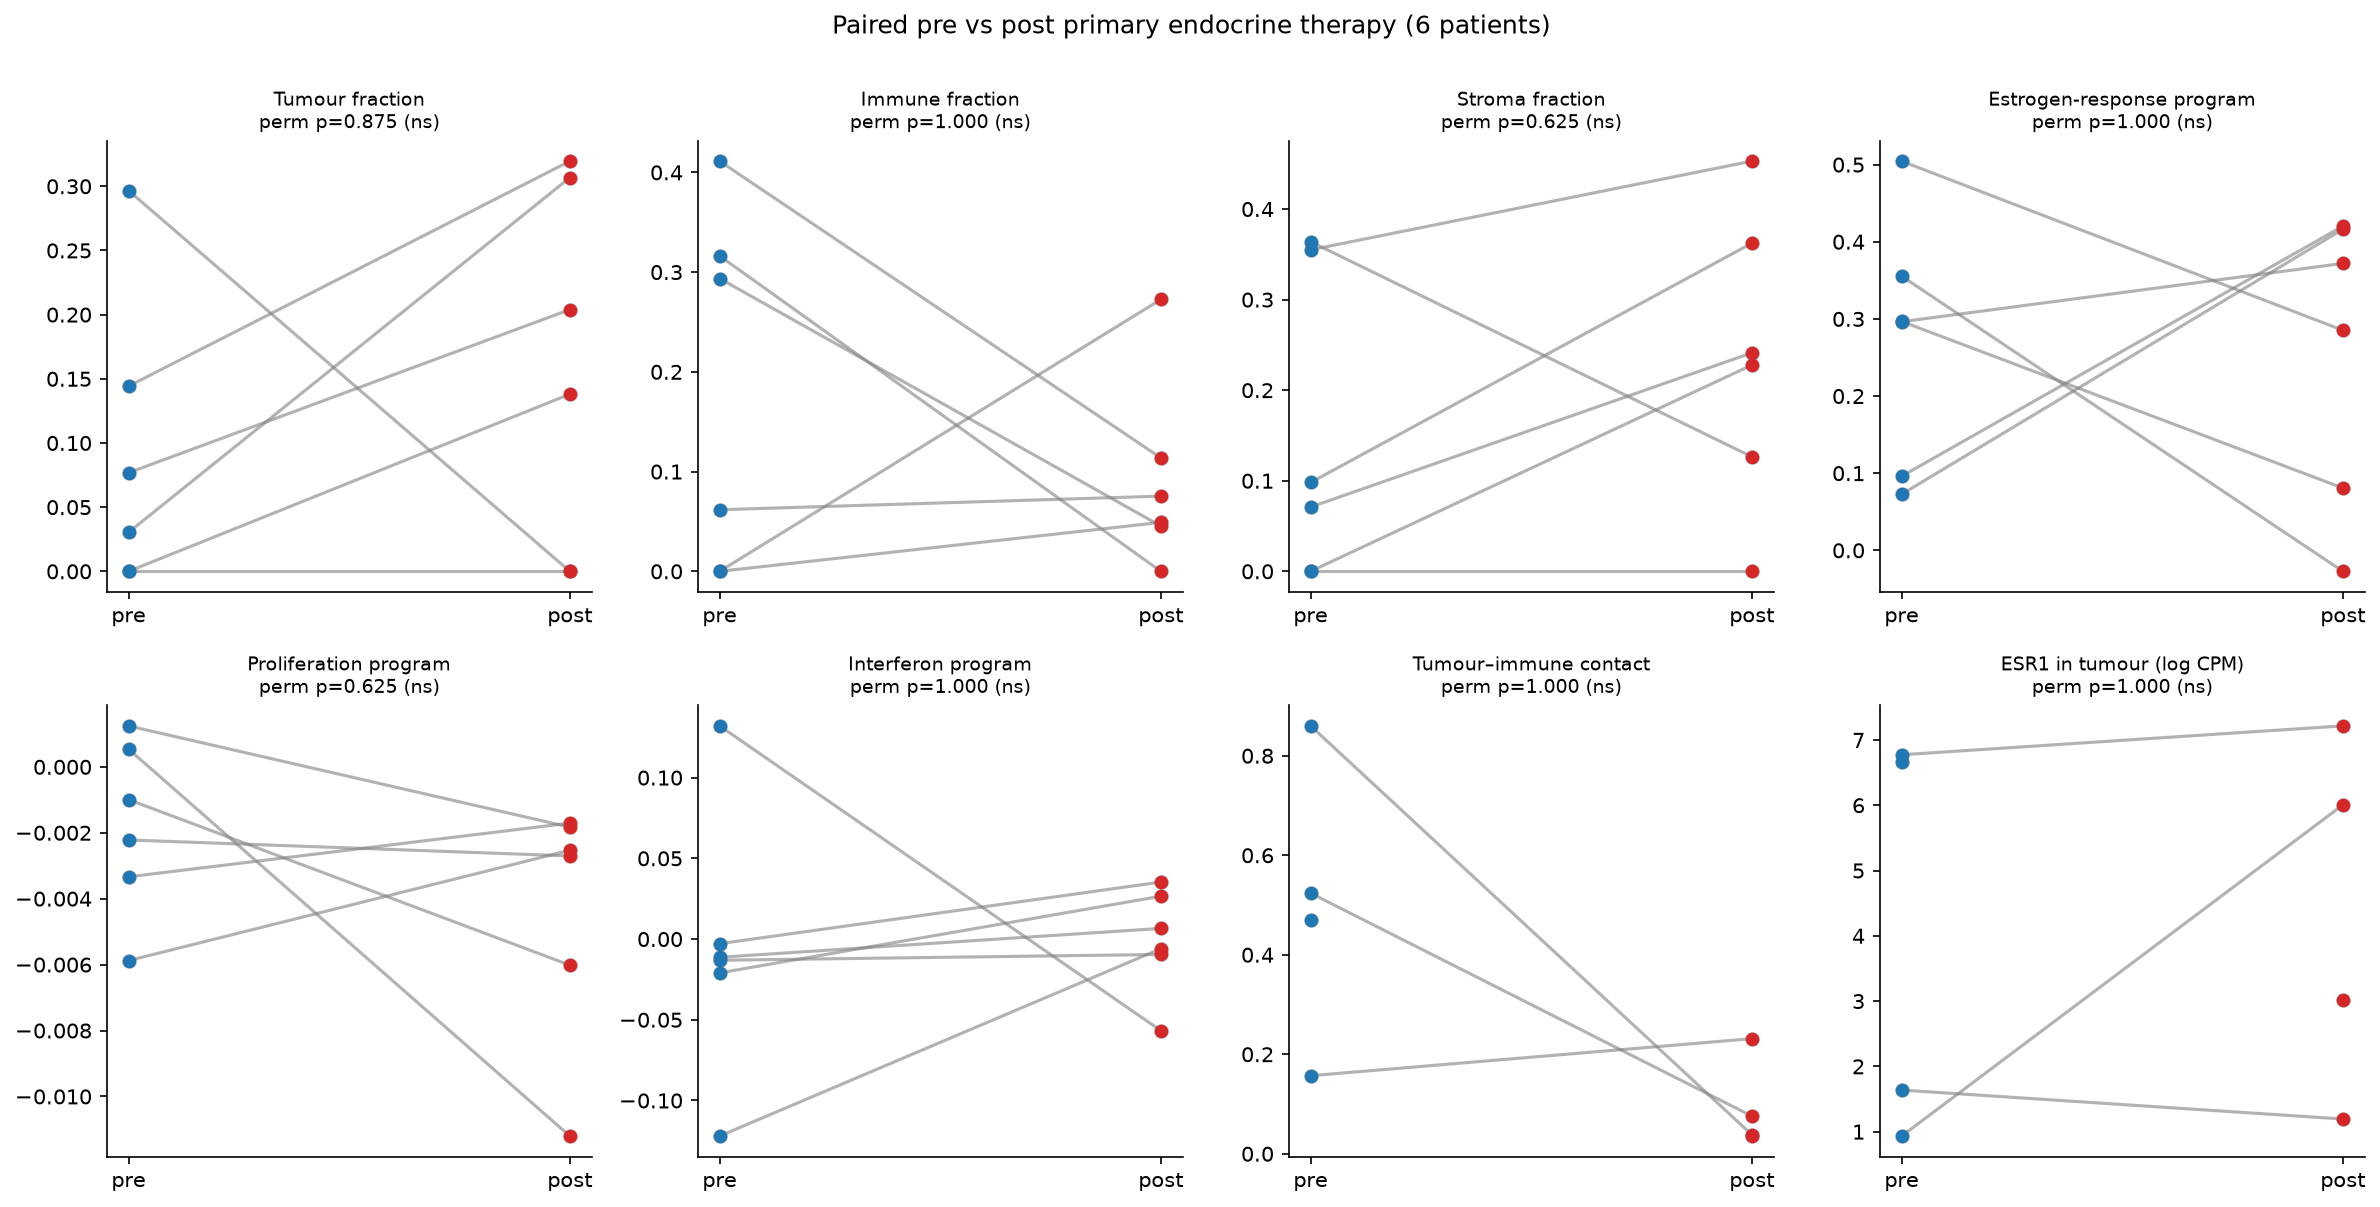
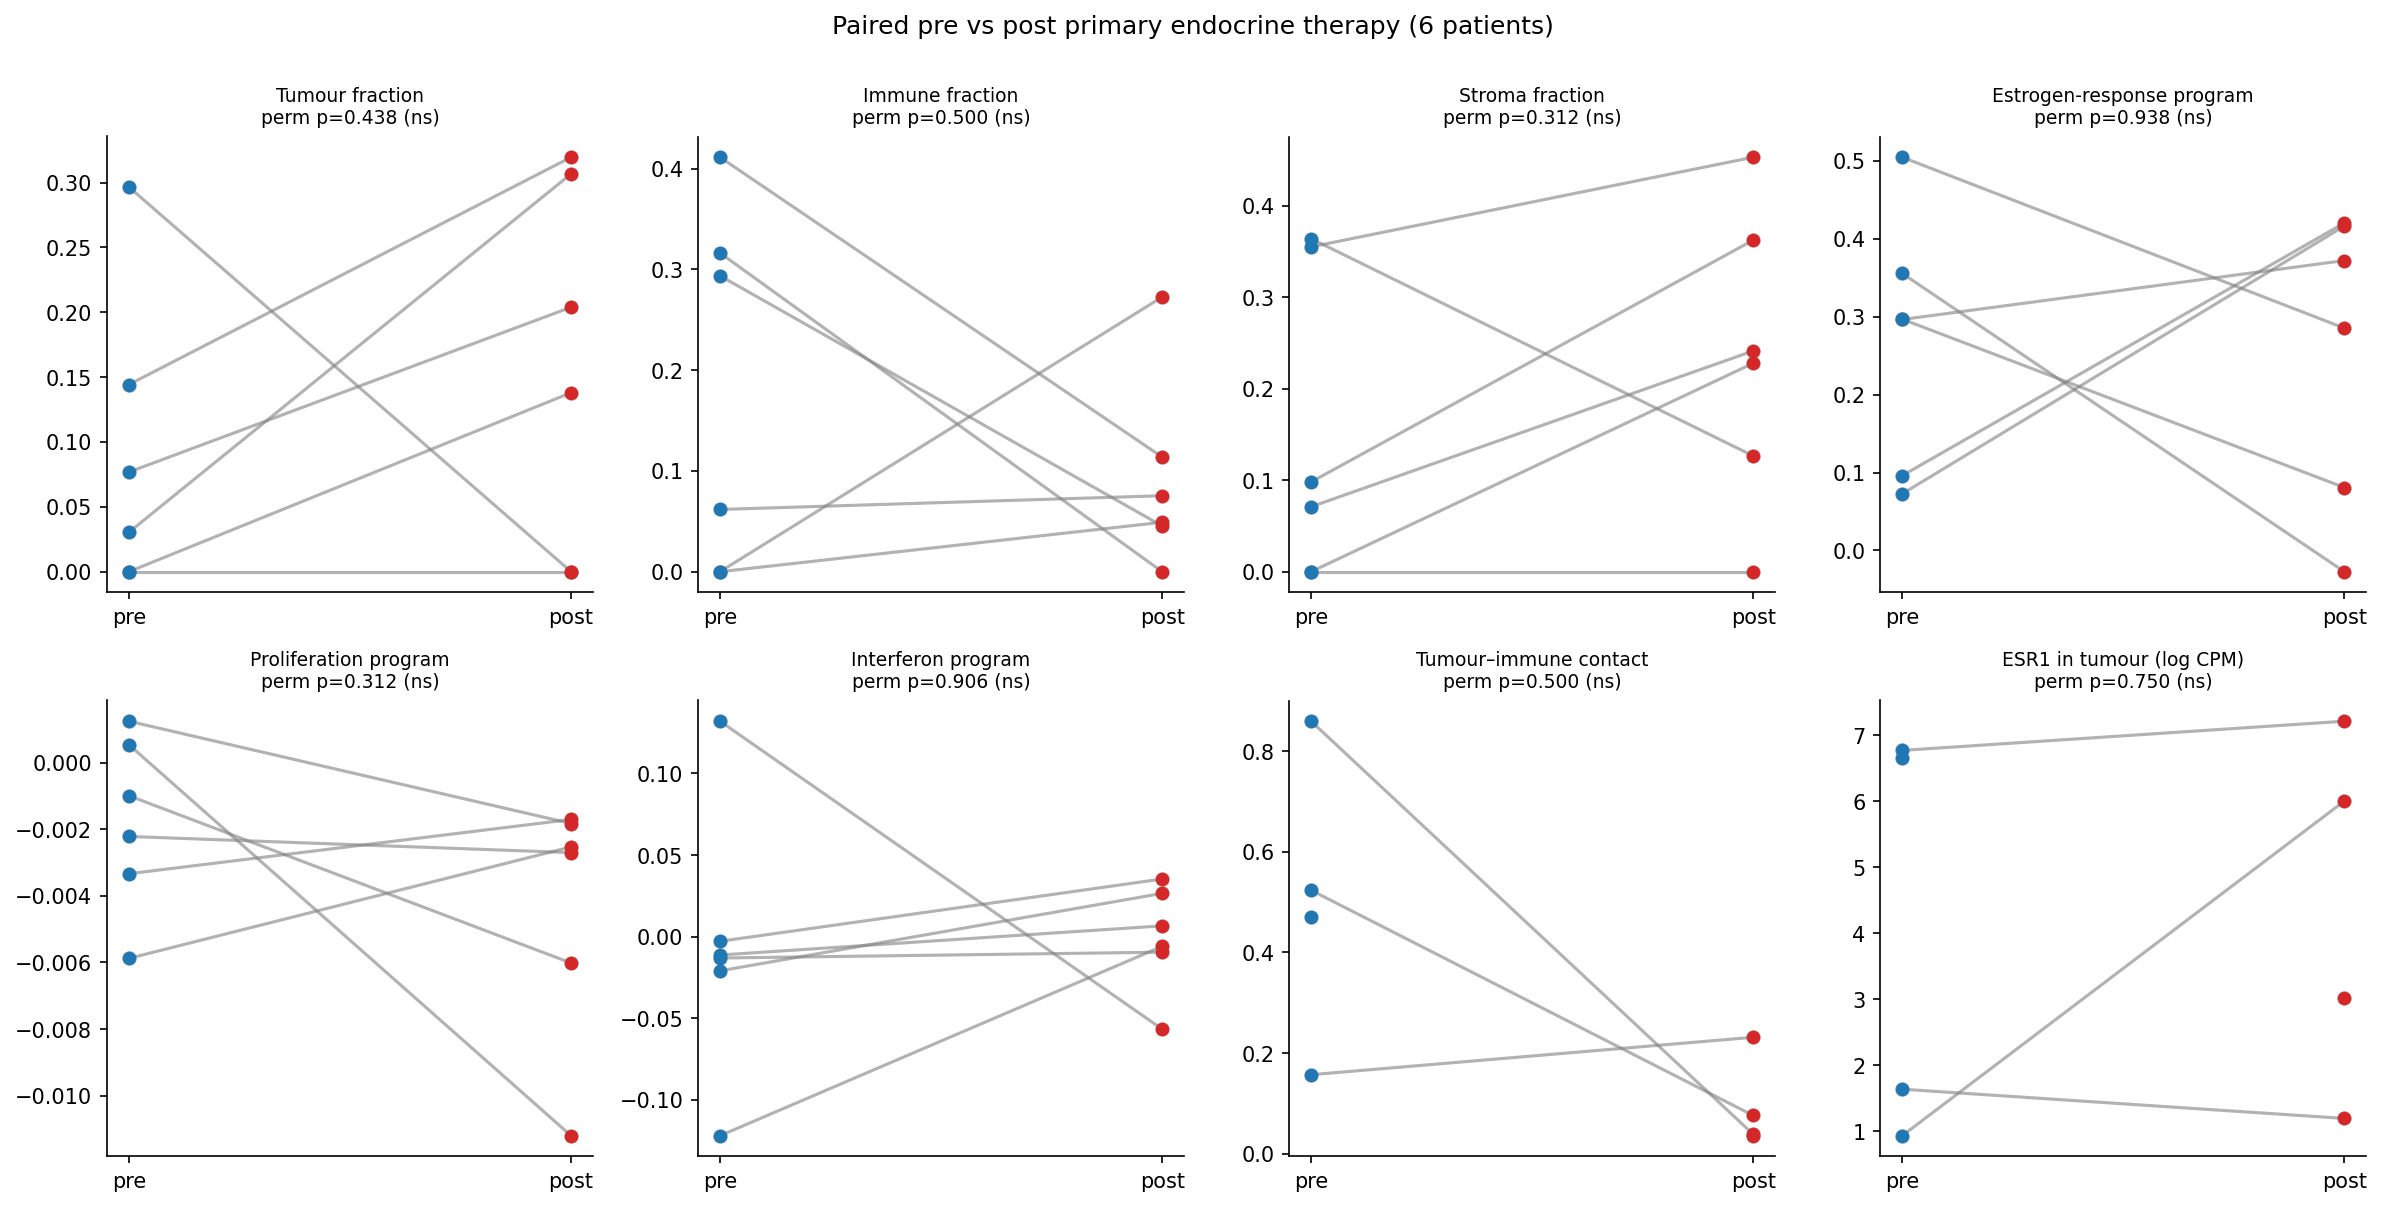
Gate 2: fix exact permutation p-values, BH step-up; recompute 07/10 tables
- exact_perm_paired now returns the correct two-sided s/N (was 2*s/N)
- BH uses a monotone step-up (bh_fdr), not a per-hypothesis ratio
- module 05 uses shared, tested CLR/NNLS normalisation helpers
- modules 07/10 import shared stats; module 10 gains a p_BH column
- regenerated 07/10 tables in the canonical env (all deltas unchanged)
- before/after: B-cell 0.1875 -> 0.09375; program-Moran BH min 0.66;
  CSF1-CSF1R 0.0 (unreproducible) -> 0.125
- e2e regression tests tied to committed metrics; claim ledger updated

diff --git a/tests/test_gate2_tables.py b/tests/test_gate2_tables.py
@@ -1,0 +1,74 @@
+"""End-to-end regression tests tying the corrected statistics to committed
+metrics tables (Gate 2).
+
+These tests fail if the per-patient deltas or the corrected exact p-values drift,
+and they encode the specific before/after values recorded in the gate report.
+"""
+
+from __future__ import annotations
+
+import numpy as np
+import pandas as pd
+import pytest
+
+from spatialrx.config import PATHS
+from spatialrx.stats import exact_perm_paired
+
+METRICS = PATHS.tables / "07_paired_metrics.csv"
+LR_SCORES = PATHS.tables / "10_lr_scores.csv"
+
+
+@pytest.mark.skipif(not METRICS.exists(), reason="07 metrics not regenerated")
+def test_bcell_paired_p_is_corrected_value():
+    """B-cell activity: old stored p_perm = 0.1875 (=2*6/64); corrected = 0.09375.
+
+    The original report prose already quoted 0.094, so the fix reconciles the
+    table with the text.
+    """
+    t = pd.read_csv(METRICS).set_index("sample")
+    piv = t.pivot_table(index="patient", columns="treatment",
+                        values="score_B_cell_activity")
+    d = (piv["post"] - piv["pre"]).dropna().to_numpy()
+    obs, p = exact_perm_paired(d)
+    assert np.isclose(obs, 0.0856055498084939)
+    assert np.isclose(p, 0.09375)
+
+
+@pytest.mark.skipif(not LR_SCORES.exists(), reason="10 LR scores not available")
+def test_csf1_lr_paired_p_is_corrected_value():
+    """CSF1-CSF1R (tumour->myeloid): committed table had p=0.0, which is
+    impossible for an exact two-sided sign-flip test; committed script yields
+    0.25 (doubled); corrected value is 0.125."""
+    scores = pd.read_csv(LR_SCORES)
+    sub = scores[
+        (scores.ligand == "CSF1")
+        & (scores.receptor == "CSF1R")
+        & (scores.category == "Tumour->Immune(myeloid)")
+    ]
+    piv = sub.pivot_table(index="patient", columns="treatment",
+                          values="interface_score").dropna()
+    d = (piv["post"] - piv["pre"]).to_numpy()
+    obs, p = exact_perm_paired(d)
+    assert np.isclose(obs, 0.3325868, atol=1e-6)
+    assert np.isclose(p, 0.125)
+    # guard against the impossible zero
+    assert p > 0
+
+
+@pytest.mark.skipif(not METRICS.exists(), reason="07 metrics not regenerated")
+def test_all_paired_p_values_are_multiples_of_reciprocal():
+    """For n paired observations the exact p must be k / 2**n."""
+    t = pd.read_csv(METRICS).set_index("sample")
+    for col in t.columns:
+        if col in ("patient", "treatment"):
+            continue
+        piv = t.pivot_table(index="patient", columns="treatment", values=col)
+        if "pre" not in piv or "post" not in piv:
+            continue
+        d = (piv["post"] - piv["pre"]).dropna().to_numpy()
+        if d.size < 3:
+            continue
+        _, p = exact_perm_paired(d)
+        if np.isnan(p):
+            continue
+        assert np.isclose(p * (2 ** d.size), round(p * (2 ** d.size)))

diff --git a/experiments/07_treatment.py b/experiments/07_treatment.py
@@ -32,7 +32,9 @@ import squidpy as sq
 from scipy import stats
 
 sys.path.insert(0, os.path.dirname(os.path.abspath(__file__)))
+sys.path.insert(0, os.path.dirname(os.path.dirname(os.path.abspath(__file__))))
 from srx import PROC_DIR, FIG_DIR, TABLE_DIR, SAMPLE_META, PAIRED, MARKERS, PROGRAMS
+from spatialrx.stats import exact_perm_paired, bh_fdr
 
 sc.settings.verbosity = 0
 os.makedirs(FIG_DIR, exist_ok=True)
@@ -126,27 +128,6 @@ def lineage_nhood(ad):
         return None
 
 
-def exact_perm_paired(d):
-    """Exact permutation test for paired mean (n=6); two-sided."""
-    d = np.asarray(d, float)
-    d = d[~np.isnan(d)]
-    if len(d) < 3:
-        return np.nan, np.nan
-    n = len(d)
-    obs = d.mean()
-    s = 0
-    total = 0
-    # enumerate sign flips (2^n); exact two-sided for n<=6
-    for bits in range(2 ** n):
-        signs = np.array([1 if (bits >> i) & 1 else -1 for i in range(n)])
-        if abs(float((signs * d).mean())) >= abs(float(obs)):
-            s += 1
-        total += 1
-    p = 2 * s / total
-    p = min(p, 1.0)
-    return obs, p
-
-
 def main():
     # ---- metric table for paired sections ----
     rows = []
@@ -178,9 +159,8 @@ def main():
                       "p_wilcoxon": p_wil, "effect_size": es,
                       "n": len(pre), "pre_mean": pre.mean(), "post_mean": post.mean()})
     tests = pd.DataFrame(tests)
-    # BH correction across metrics
-    tests["p_perm_BH"] = tests["p_perm"].apply(
-        lambda p: min(1.0, p * len(tests) / max(1, (tests["p_perm"] <= p).sum())))
+    # BH correction across metrics (exact step-up, monotonicity enforced)
+    tests["p_perm_BH"] = bh_fdr(tests["p_perm"].to_numpy(dtype=float))
     tests = tests.sort_values("p_perm")
     tests.to_csv(os.path.join(TABLE_DIR, "07_paired_tests.csv"), index=False)
     print("\n[m7] paired pre->post tests (n=6 patients; permutation p, BH-corrected):")
@@ -316,8 +296,7 @@ def main():
         rows_t.append({"program": prog, "delta_moranI": obs, "p_perm": p,
                        "n": len(d)})
     mt = pd.DataFrame(rows_t).sort_values("p_perm")
-    mt["p_BH"] = mt["p_perm"].apply(
-        lambda p: min(1.0, p * len(mt) / max(1, (mt["p_perm"] <= p).sum())))
+    mt["p_BH"] = bh_fdr(mt["p_perm"].to_numpy(dtype=float))
     mt.to_csv(os.path.join(TABLE_DIR, "07_program_morans_paired_tests.csv"), index=False)
     print("\n[m7] paired tests on spatial-structure (Moran's I) change post-pre:")
     print(mt.round(3).to_string(index=False))

diff --git a/experiments/10_lr_analysis.py b/experiments/10_lr_analysis.py
@@ -27,7 +27,9 @@ import scanpy as sc
 import squidpy as sq
 
 sys.path.insert(0, os.path.dirname(os.path.abspath(__file__)))
+sys.path.insert(0, os.path.dirname(os.path.dirname(os.path.abspath(__file__))))
 from srx import PROC_DIR, FIG_DIR, TABLE_DIR, SAMPLE_META, PAIRED
+from spatialrx.stats import exact_perm_paired, bh_fdr
 
 sc.settings.verbosity = 0
 os.makedirs(FIG_DIR, exist_ok=True)
@@ -143,21 +145,14 @@ def main():
     print("\n[m10] top interaction scores at tumour-immune interface (mean score):")
     print(summ.head(20).round(3).to_string(index=False))
 
-    # paired deltas per pair (exact permutation as module 7)
+    # paired deltas per pair (exact sign-flip test, shared implementation)
     def paired_delta(sub):
         d = sub.pivot_table(index="patient", columns="treatment",
                             values="interface_score").dropna()
         if len(d) < 3 or "pre" not in d or "post" not in d:
             return None
         dv = (d["post"] - d["pre"]).to_numpy()
-        obs = dv.mean()
-        n = len(dv)
-        s = 0
-        for bits in range(2 ** n):
-            signs = np.array([1 if (bits >> i) & 1 else -1 for i in range(n)])
-            if abs((signs * dv).mean()) >= abs(obs):
-                s += 1
-        p = min(1.0, 2 * s / 2 ** n)
+        obs, p = exact_perm_paired(dv)
         return obs, p, len(dv)
 
     tpairs = []
@@ -167,6 +162,7 @@ def main():
             tpairs.append({"ligand": lig, "receptor": rec, "category": cat,
                            "delta": r[0], "p_perm": r[1], "n": r[2]})
     tp = pd.DataFrame(tpairs).sort_values("p_perm")
+    tp["p_BH"] = bh_fdr(tp["p_perm"].to_numpy(dtype=float)) if len(tp) else []
     tp.to_csv(os.path.join(TABLE_DIR, "10_lr_paired_tests.csv"), index=False)
     print("\n[m10] paired pre->post interface-score tests:")
     print(tp.head(12).round(3).to_string(index=False))

diff --git a/experiments/05_ecosystem.py b/experiments/05_ecosystem.py
@@ -37,7 +37,9 @@ from scipy.optimize import nnls
 from scipy.sparse import issparse
 
 sys.path.insert(0, os.path.dirname(os.path.abspath(__file__)))
+sys.path.insert(0, os.path.dirname(os.path.dirname(os.path.abspath(__file__))))
 from srx import PROC_DIR, FIG_DIR, TABLE_DIR, SAMPLE_META, PROGRAMS, MARKERS
+from spatialrx.norm import clr_protein, nnls_proportions
 
 sc.settings.verbosity = 0
 os.makedirs(FIG_DIR, exist_ok=True)
@@ -70,36 +72,6 @@ def lognorm_matrix(ad, genes):
         X = X.toarray()
     X = np.asarray(X, dtype=np.float64)
     return X, genes
-
-
-def clr_protein(prot):
-    """Winsorize top/bottom 5% per protein (across spots), then per-spot CLR."""
-    prot = np.asarray(prot, dtype=np.float64)
-    n = prot.shape[0]
-    if n == 0:
-        return prot
-    k = max(1, int(n * 0.05))
-    for j in range(prot.shape[1]):
-        x = prot[:, j]
-        if x.max() == 0:
-            continue
-        lo, hi = np.sort(x)[k], np.sort(x)[n - 1 - k]
-        x = np.clip(x, lo, hi)
-        prot[:, j] = x
-    prot = prot + 1.0
-    gmean = np.exp(np.log(prot).mean(axis=1, keepdims=True))
-    return np.log(prot / gmean)
-
-
-def nnls_proportions(X, S, lineage_names):
-    """Solve argmin ||X_i - S p_i||, p >= 0, per spot; returns n_spots x n_lineage."""
-    S = S / (S.sum(axis=0, keepdims=True) + 1e-12)  # signature columns ~ comparable scale
-    P = np.zeros((X.shape[0], S.shape[1]))
-    for i in range(X.shape[0]):
-        sol, _ = nnls(S, X[i])
-        tot = sol.sum()
-        P[i] = sol / tot if tot > 0 else 0
-    return pd.DataFrame(P, columns=lineage_names)
 
 
 def process_sample(specimen):

diff --git a/docs/01_SCIENTIFIC_CLAIM_LEDGER.md b/docs/01_SCIENTIFIC_CLAIM_LEDGER.md
@@ -129,3 +129,36 @@ inflated by ≈2× relative to the correct exact value. This does not change the
 **Bottom line:** the report is largely faithful to its own output tables, but six claims have
 provenance or validity problems, and two of them (C18 permutation p, C25 niche AUROC) touch
 headline conclusions. All are fixable without changing the underlying data.
+
+---
+
+## I. Remediation updates — branch `fix/repro-correctness-v1`
+
+Baseline for comparison: `47052bd` (frozen Phase-0 audit).
+
+### Gate 1 — reproducibility (no claim changes)
+
+- Canonical environment pinned (`environment.yml`, `requirements.lock`); h5ad writes now work.
+- `spatialrx validate-data` passes 31/31 checks (strict, sha256 verified); `reproduce --smoke` passes.
+- Found and fixed a latent metadata bug: `patient_of` used dash-field index 3 and returned the
+  section token (e.g. `S2_D`) instead of the patient. Unused by the old scripts; now covered by a
+  regression test. No reported claim depended on it.
+
+### Gate 2 — statistical correctness (claims changed)
+
+| Claim | Before (committed table) | After (corrected) | Reason |
+|---|---|---|---|
+| C18 B-cell paired trend p | `p_perm = 0.1875` | **0.09375** | `exact_perm_paired` double-counted both tails (`2·s/N`); correct exact two-sided p is `s/N`. The report prose already quoted 0.094, so the table now matches the text. |
+| C17/C21 all `07_paired_tests` p | each `2·s/N` | each `s/N` | same fix; all deltas unchanged; no metric becomes BH-significant (`p_perm_BH` min 0.900). |
+| C20 program Moran p | each `2·s/N` | each `s/N` | same fix; BH now uses a proper monotone step-up (`p_BH` min 0.660); no program change is significant. |
+| C31 CSF1–CSF1R Δ+0.33 | `p = 0.0` (table) | **0.125** | The committed `0.0` is impossible for an exact two-sided sign-flip test (the observed sign vector is always in the null set); the committed script actually yields 0.25, and the corrected value is 0.125. The stored table was **not reproducible** from the committed code (provenance defect). |
+| C31 TGFB1–TGFBR1 Δ+0.28 | `p = 0.0` | **0.125** | same. |
+| C31 LR paired tests | no correction | added `p_BH` column | multiple-testing correction was absent; all BH values ≥ 0.81. |
+
+**Unchanged by remediation:** every effect-size / delta in modules 07 and 10, all `07_paired_metrics`
+values, all program Moran's I values (to floating precision), and the overall conclusion that no
+paired pre/post change survives multiple-testing correction at n = 6. The `10_lr` deltas are
+unchanged; only their p-values were corrected.
+
+Pending (post-Gate 4 reconciliation): C10 marker count (26 vs 27), C12 protein-FDR range (30–35),
+C21 metric count (24 not 22), C25 niche-AUROC validity, C15 isotype robustness removal.
